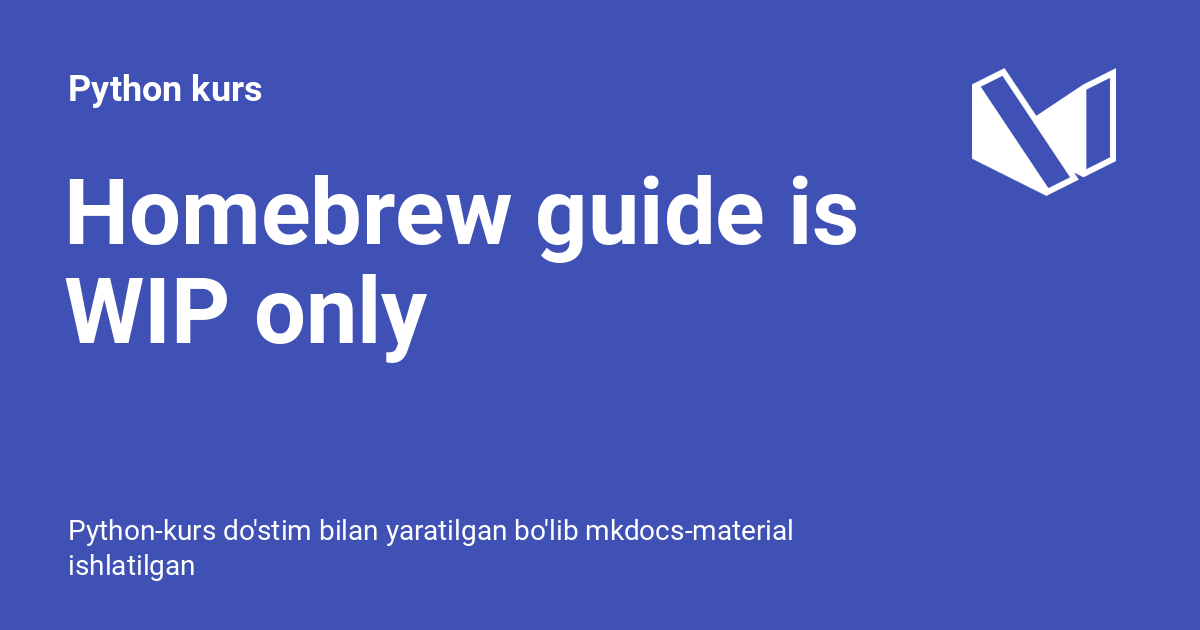
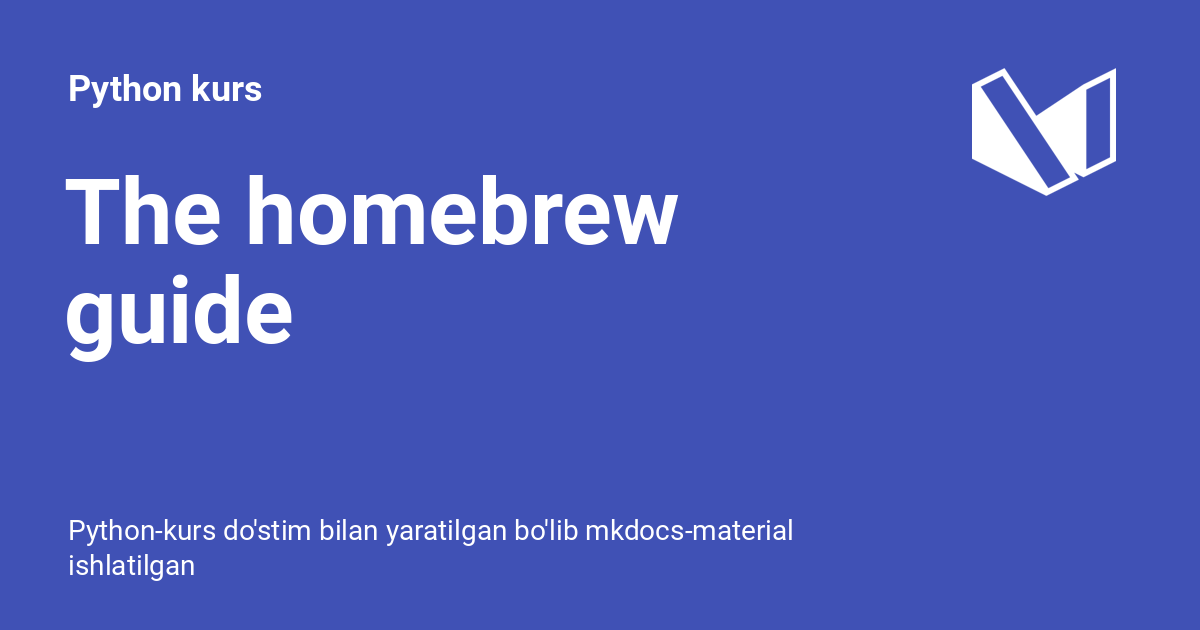
Deployed 29c8d57 with MkDocs version: 1.5.3

Changed region(s): [[0.0308, 0.2714, 0.7092, 0.4222], [0.0308, 0.4222, 0.37, 0.573]]

diff --git a/LICENSE/index.html b/LICENSE/index.html
@@ -123,7 +123,7 @@
     <div data-md-component="skip">
       
         
-        <a href="#simplix-pub-license" class="md-skip">
+        <a href="#simplxi-public-license" class="md-skip">
           Tarkibga o'tish
         </a>
       
@@ -642,7 +642,7 @@
   
 
 
-<h1 id="simplix-pub-license"><a class="toclink" href="#simplix-pub-license">SimpliX Pub-<strong>LiC</strong>ense</a><a class="headerlink" href="#simplix-pub-license" title="Permanent link">&para;</a></h1>
+<h1 id="simplxi-public-license"><a class="toclink" href="#simplxi-public-license">SimplXI Public License</a><a class="headerlink" href="#simplxi-public-license" title="Permanent link">&para;</a></h1>
 <div class="language-bash highlight"><pre><span></span><code><span id="__span-0-1"><a id="__codelineno-0-1" name="__codelineno-0-1" href="#__codelineno-0-1"></a><span class="w"> </span>mmmm<span class="w">  </span>mmmmm<span class="w">  </span>m<span class="w">    </span>m<span class="w"> </span>mmmmm<span class="w">  </span>m<span class="w">      </span>mmmmm<span class="w">  </span>m<span class="w">    </span>m
 </span><span id="__span-0-2"><a id="__codelineno-0-2" name="__codelineno-0-2" href="#__codelineno-0-2"></a><span class="c1">#&quot;   &quot;   #    ##  ## #   &quot;# #        #     #  # </span>
 </span><span id="__span-0-3"><a id="__codelineno-0-3" name="__codelineno-0-3" href="#__codelineno-0-3"></a><span class="s2">&quot;#mmm    #    # ## # #mmm#&quot;</span><span class="w"> </span><span class="c1">#        #      ##  </span>
@@ -650,18 +650,19 @@
 </span><span id="__span-0-5"><a id="__codelineno-0-5" name="__codelineno-0-5" href="#__codelineno-0-5"></a><span class="s2">&quot;</span>mmm#<span class="s2">&quot; mm#mm  #    # #      #mmmmm mm#mm  m&quot;</span><span class="w">  </span><span class="s2">&quot;m</span>
 </span></code></pre></div>
 <blockquote>
-<p>Copyright &copy; 2024 FSteak</p>
+<p>Copyright &copy; 2024-present FSteak
+Copyright &copy; 2024-present Mukhammad Iso</p>
 </blockquote>
-<p>Simple and eazy reading LICENSE FOR some of my PROJECTS<br>
-No any <em>bloatware</em> or <em>garbage</em> no <em>loong</em> reading JUST <strong>rules</strong>
-<div class="language-csharp highlight"><pre><span></span><code><span id="__span-1-1"><a id="__codelineno-1-1" name="__codelineno-1-1" href="#__codelineno-1-1"></a><span class="m">1.</span><span class="w"> </span><span class="n">You</span><span class="w"> </span><span class="n">CAN</span><span class="w"> </span><span class="n">use</span><span class="w"> </span><span class="n">it</span><span class="o">!</span>
-</span><span id="__span-1-2"><a id="__codelineno-1-2" name="__codelineno-1-2" href="#__codelineno-1-2"></a><span class="m">2.</span><span class="w"> </span><span class="n">You</span><span class="w"> </span><span class="n">CAN</span><span class="w"> </span><span class="n">fork</span><span class="w"> </span><span class="n">and</span><span class="w"> </span><span class="k">do</span><span class="w"> </span><span class="n">anything</span><span class="w"> </span><span class="k">on</span><span class="w"> </span><span class="n">it</span><span class="o">!</span>
-</span><span id="__span-1-3"><a id="__codelineno-1-3" name="__codelineno-1-3" href="#__codelineno-1-3"></a><span class="m">3.</span><span class="w"> </span><span class="n">EXCEPT</span><span class="w"> </span><span class="n">you</span><span class="w"> </span><span class="n">can</span><span class="w"> </span><span class="n">NOT</span><span class="w"> </span><span class="n">sell</span><span class="w"> </span><span class="n">it</span><span class="o">!</span><span class="w"> </span><span class="p">(</span><span class="n">You</span><span class="w"> </span><span class="n">can</span><span class="w"> </span><span class="n">sell</span><span class="w"> </span><span class="n">it</span><span class="w"> </span><span class="n">but</span><span class="w"> </span><span class="n">not</span><span class="w"> </span><span class="n">just</span><span class="w"> </span><span class="n">take</span><span class="w"> </span><span class="n">a</span><span class="w"> </span><span class="n">fork</span><span class="w"> </span><span class="n">and</span><span class="w"> </span><span class="n">selling</span><span class="p">)</span>
-</span><span id="__span-1-4"><a id="__codelineno-1-4" name="__codelineno-1-4" href="#__codelineno-1-4"></a><span class="m">4.</span><span class="w"> </span><span class="n">NO</span><span class="w"> </span><span class="n">BREAKING</span><span class="w"> </span><span class="n">THE</span><span class="w"> </span><span class="n">CODE</span><span class="w"> </span><span class="n">OR</span><span class="w"> </span><span class="n">DOING</span><span class="w"> </span><span class="n">MISLEADING</span><span class="w"> </span><span class="n">INFO</span><span class="w"> </span><span class="n">AFTER</span><span class="w"> </span><span class="n">FORKING</span><span class="o">!</span>
-</span></code></pre></div></p>
-<div class="admonition info">
-<p class="admonition-title"><strong>INFO</strong></p>
-<p>Please Don't blame me for the uppercased typing or like something that</p>
+<p>The license that I (or We) use for this project only</p>
+<div class="language-markdown highlight"><pre><span></span><code><span id="__span-1-1"><a id="__codelineno-1-1" name="__codelineno-1-1" href="#__codelineno-1-1"></a><span class="k">1.</span> You CAN change the code and use as example or use code, and copy the code to save your time.
+</span><span id="__span-1-2"><a id="__codelineno-1-2" name="__codelineno-1-2" href="#__codelineno-1-2"></a><span class="k">2.</span> You CAN fork and change the bugs and pull request also for providing translations.
+</span><span id="__span-1-3"><a id="__codelineno-1-3" name="__codelineno-1-3" href="#__codelineno-1-3"></a><span class="k">3.</span> You CANNOT use the project for commercial use as it providing free quality course with no any ads.
+</span><span id="__span-1-4"><a id="__codelineno-1-4" name="__codelineno-1-4" href="#__codelineno-1-4"></a><span class="k">4.</span> You CANNOT use this license anywhere as it is specified for Open-Source Course, it is Open-Source because it was started to be a course project to create with friend.
+</span></code></pre></div>
+<div class="admonition alert">
+<p class="admonition-title">This license can be same as MIT</p>
+<p>But there is no use for commercial
+and using this license is not allowed (allowed but not in almost any project) but license only specified for the course-type projects</p>
 </div>
 
 
@@ -685,7 +686,7 @@ No any <em>bloatware</em> or <em>garbage</em> no <em>loong</em> reading JUST <st
     <span class="md-icon" title="Oxirgi yangilanish">
       <svg xmlns="http://www.w3.org/2000/svg" viewBox="0 0 24 24"><path d="M21 13.1c-.1 0-.3.1-.4.2l-1 1 2.1 2.1 1-1c.2-.2.2-.6 0-.8l-1.3-1.3c-.1-.1-.2-.2-.4-.2m-1.9 1.8-6.1 6V23h2.1l6.1-6.1-2.1-2M12.5 7v5.2l4 2.4-1 1L11 13V7h1.5M11 21.9c-5.1-.5-9-4.8-9-9.9C2 6.5 6.5 2 12 2c5.3 0 9.6 4.1 10 9.3-.3-.1-.6-.2-1-.2s-.7.1-1 .2C19.6 7.2 16.2 4 12 4c-4.4 0-8 3.6-8 8 0 4.1 3.1 7.5 7.1 7.9l-.1.2v1.8Z"/></svg>
     </span>
-    <span class="git-revision-date-localized-plugin git-revision-date-localized-plugin-date">March 12, 2024</span>
+    <span class="git-revision-date-localized-plugin git-revision-date-localized-plugin-date">March 19, 2024</span>
   </span>
 
     

diff --git a/todo/wip/homebrew/index.html b/todo/wip/homebrew/index.html
@@ -22,7 +22,7 @@
     
     
       
-        <title>Homebrew guide is WIP only - Python kurs</title>
+        <title>The homebrew guide - Python kurs</title>
       
     
     
@@ -69,7 +69,7 @@
       
         <meta  property="og:type"  content="website" >
       
-        <meta  property="og:title"  content="Homebrew guide is WIP only - Python kurs" >
+        <meta  property="og:title"  content="The homebrew guide - Python kurs" >
       
         <meta  property="og:description"  content="Python-kurs do'stim bilan yaratilgan bo'lib mkdocs-material ishlatilgan" >
       
@@ -85,7 +85,7 @@
       
         <meta  name="twitter:card"  content="summary_large_image" >
       
-        <meta  name="twitter:title"  content="Homebrew guide is WIP only - Python kurs" >
+        <meta  name="twitter:title"  content="The homebrew guide - Python kurs" >
       
         <meta  name="twitter:description"  content="Python-kurs do'stim bilan yaratilgan bo'lib mkdocs-material ishlatilgan" >
       
@@ -121,7 +121,7 @@
     <div data-md-component="skip">
       
         
-        <a href="#homebrew-guide-is-wip-only" class="md-skip">
+        <a href="#the-homebrew-guide" class="md-skip">
           Tarkibga o'tish
         </a>
       
@@ -155,7 +155,7 @@
         <div class="md-header__topic" data-md-component="header-topic">
           <span class="md-ellipsis">
             
-              Homebrew guide is WIP only
+              The homebrew guide
             
           </span>
         </div>
@@ -615,15 +615,78 @@
         
       
       
+        <label class="md-nav__link md-nav__link--active" for="__toc">
+          
+  
+  <span class="md-ellipsis">
+    The homebrew guide
+  </span>
+  
+
+          <span class="md-nav__icon md-icon"></span>
+        </label>
+      
       <a href="./" class="md-nav__link md-nav__link--active">
         
   
   <span class="md-ellipsis">
-    Homebrew guide is WIP only
+    The homebrew guide
   </span>
   
 
       </a>
+      
+        
+
+<nav class="md-nav md-nav--secondary" aria-label="Mundarija">
+  
+  
+  
+    
+  
+  
+    <label class="md-nav__title" for="__toc">
+      <span class="md-nav__icon md-icon"></span>
+      Mundarija
+    </label>
+    <ul class="md-nav__list" data-md-component="toc" data-md-scrollfix>
+      
+        <li class="md-nav__item">
+  <a href="#installing-homebrew" class="md-nav__link">
+    <span class="md-ellipsis">
+      Installing homebrew
+    </span>
+  </a>
+  
+    <nav class="md-nav" aria-label="Installing homebrew">
+      <ul class="md-nav__list">
+        
+          <li class="md-nav__item">
+  <a href="#homebrew-guide-is-wip-only" class="md-nav__link">
+    <span class="md-ellipsis">
+      Homebrew guide is WIP only
+    </span>
+  </a>
+  
+</li>
+        
+      </ul>
+    </nav>
+  
+</li>
+      
+        <li class="md-nav__item">
+  <a href="#using-the-homebrew" class="md-nav__link">
+    <span class="md-ellipsis">
+      Using the Homebrew
+    </span>
+  </a>
+  
+</li>
+      
+    </ul>
+  
+</nav>
       
     </li>
   
@@ -676,7 +739,23 @@
   
 
 
-<h1 id="homebrew-guide-is-wip-only"><a class="toclink" href="#homebrew-guide-is-wip-only">Homebrew guide is WIP only</a><a class="headerlink" href="#homebrew-guide-is-wip-only" title="Permanent link">&para;</a></h1>
+<h1 id="the-homebrew-guide"><a class="toclink" href="#the-homebrew-guide">The homebrew guide</a><a class="headerlink" href="#the-homebrew-guide" title="Permanent link">&para;</a></h1>
+<h2 id="installing-homebrew"><a class="toclink" href="#installing-homebrew">Installing homebrew</a><a class="headerlink" href="#installing-homebrew" title="Permanent link">&para;</a></h2>
+<p>The homebrew package manager is only for macOS and Linux only</p>
+<p>so it has simple installation</p>
+<p>also if you are linux you SHOULD have <code>curl</code> and <code>bash</code>
+<div class="language-bash highlight"><pre><span></span><code><span id="__span-0-1"><a id="__codelineno-0-1" name="__codelineno-0-1" href="#__codelineno-0-1"></a>&lt;installing<span class="w"> </span>code<span class="w"> </span>here&gt;
+</span></code></pre></div></p>
+<h3 id="homebrew-guide-is-wip-only"><a class="toclink" href="#homebrew-guide-is-wip-only">Homebrew guide is WIP only</a><a class="headerlink" href="#homebrew-guide-is-wip-only" title="Permanent link">&para;</a></h3>
+<div class="admonition note">
+<p class="admonition-title">Post-Install for linux!</p>
+<p>&lt;\placeholder need help/&gt;</p>
+</div>
+<h2 id="using-the-homebrew"><a class="toclink" href="#using-the-homebrew">Using the Homebrew</a><a class="headerlink" href="#using-the-homebrew" title="Permanent link">&para;</a></h2>
+<p>To use homebrew just type <code>brew</code> in Terminal</p>
+<p>you should see commands and about the program or using it and so on...</p>
+<div class="language-bash highlight"><pre><span></span><code><span id="__span-1-1"><a id="__codelineno-1-1" name="__codelineno-1-1" href="#__codelineno-1-1"></a>brew
+</span></code></pre></div>
 
 
 
@@ -699,7 +778,7 @@
     <span class="md-icon" title="Oxirgi yangilanish">
       <svg xmlns="http://www.w3.org/2000/svg" viewBox="0 0 24 24"><path d="M21 13.1c-.1 0-.3.1-.4.2l-1 1 2.1 2.1 1-1c.2-.2.2-.6 0-.8l-1.3-1.3c-.1-.1-.2-.2-.4-.2m-1.9 1.8-6.1 6V23h2.1l6.1-6.1-2.1-2M12.5 7v5.2l4 2.4-1 1L11 13V7h1.5M11 21.9c-5.1-.5-9-4.8-9-9.9C2 6.5 6.5 2 12 2c5.3 0 9.6 4.1 10 9.3-.3-.1-.6-.2-1-.2s-.7.1-1 .2C19.6 7.2 16.2 4 12 4c-4.4 0-8 3.6-8 8 0 4.1 3.1 7.5 7.1 7.9l-.1.2v1.8Z"/></svg>
     </span>
-    <span class="git-revision-date-localized-plugin git-revision-date-localized-plugin-date">March 15, 2024</span>
+    <span class="git-revision-date-localized-plugin git-revision-date-localized-plugin-date">March 19, 2024</span>
   </span>
 
     

diff --git a/todo/index.html b/todo/index.html
@@ -612,7 +612,7 @@
         
   
   <span class="md-ellipsis">
-    Homebrew guide is WIP only
+    The homebrew guide
   </span>
   
 
@@ -844,13 +844,13 @@
         
         
           
-          <a href="wip/homebrew/" class="md-footer__link md-footer__link--next" aria-label="Keyingi sahifa: Homebrew guide is WIP only">
+          <a href="wip/homebrew/" class="md-footer__link md-footer__link--next" aria-label="Keyingi sahifa: The homebrew guide">
             <div class="md-footer__title">
               <span class="md-footer__direction">
                 Keyingi sahifa
               </span>
               <div class="md-ellipsis">
-                Homebrew guide is WIP only
+                The homebrew guide
               </div>
             </div>
             <div class="md-footer__button md-icon">
